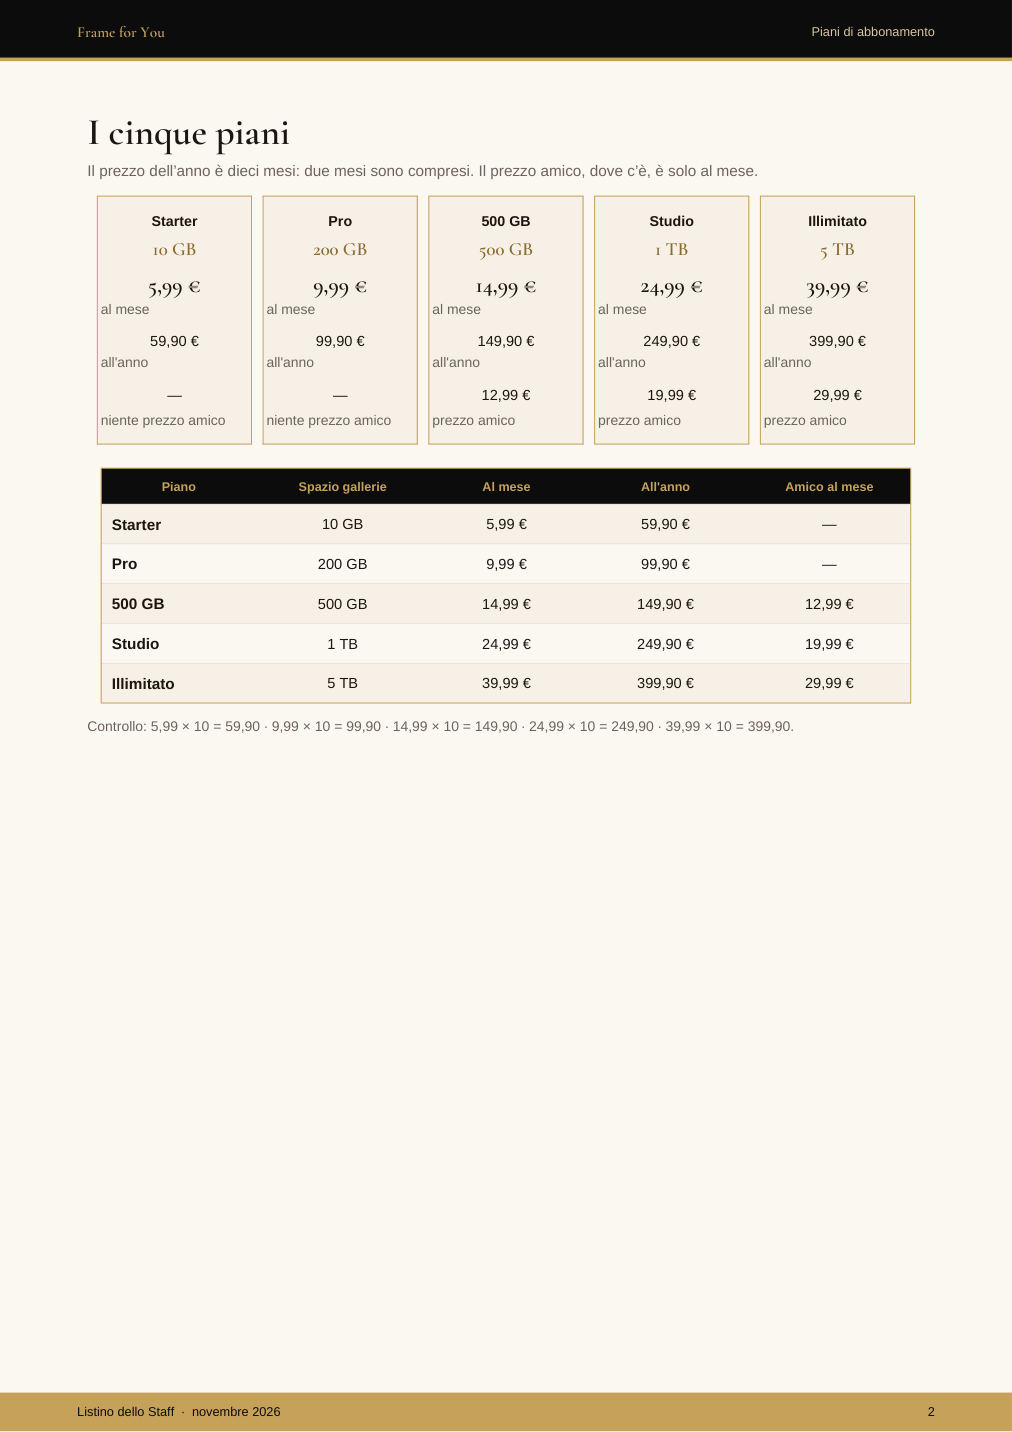
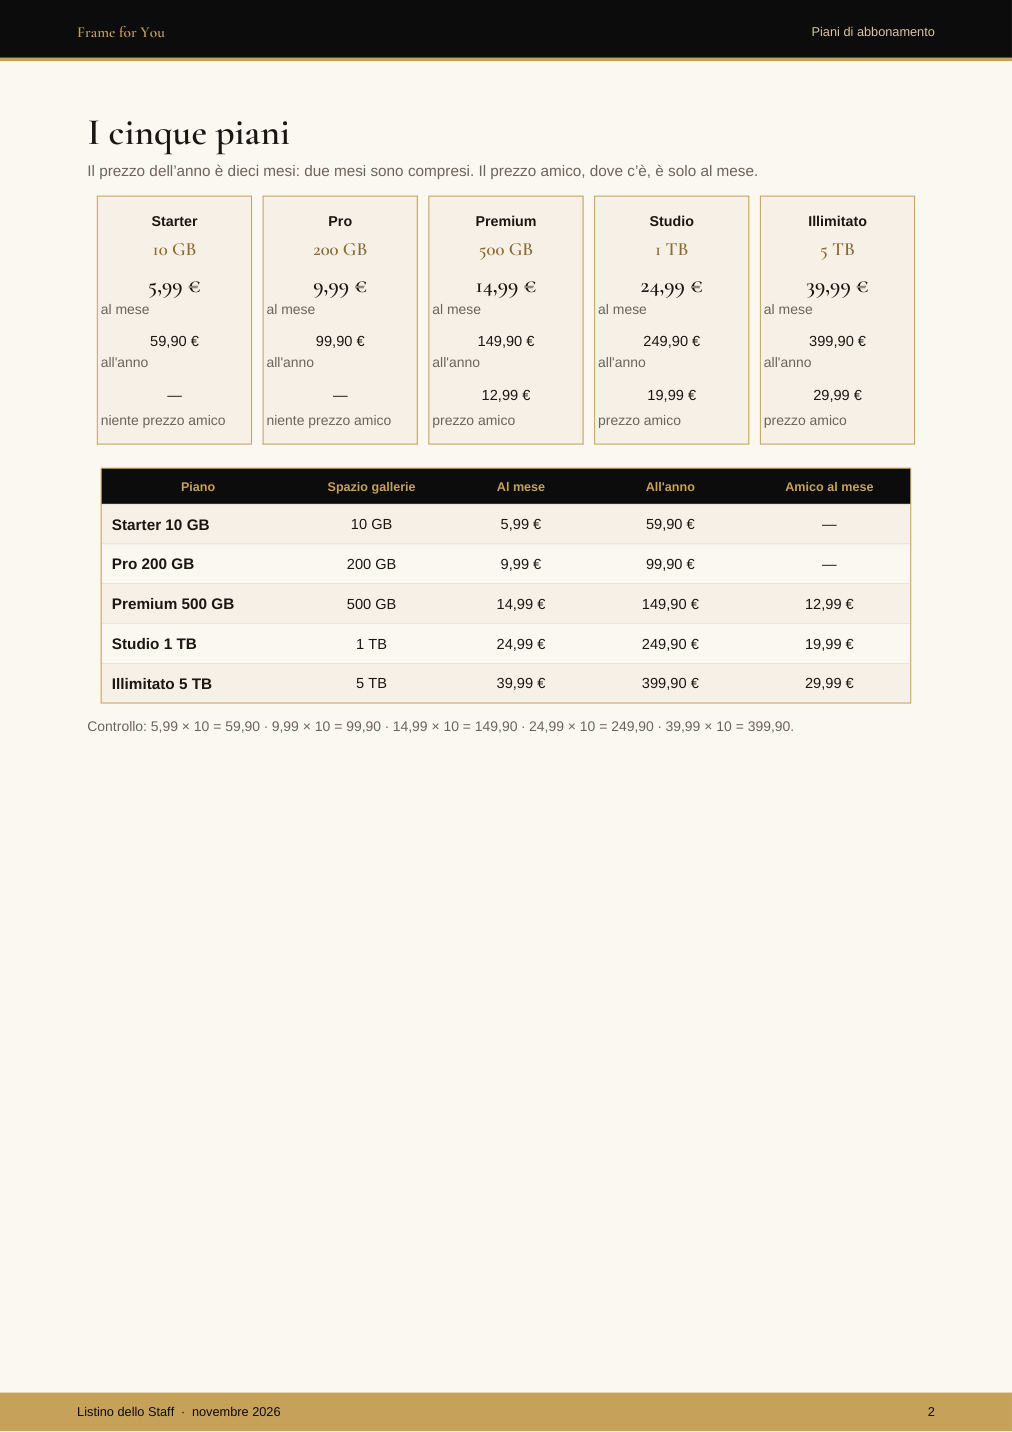
Listino: Premium 500 GB, nomi come nel Creatore.

diff --git a/piani.html b/piani.html
@@ -1,1 +1,1 @@
-<!doctype html><html lang="it"><meta charset="utf-8"><meta name="viewport" content="width=device-width,initial-scale=1"><title>Piani Frame for You</title><style>body{margin:0;background:#0e0e0c}main{max-width:900px;margin:0 auto;padding:10px}img{width:100%;display:block;margin:0 0 12px;border-radius:8px;background:#fff}a{display:block;text-align:center;color:#e6d3a8;font:600 15px/1.4 sans-serif;margin:8px 0 16px}</style><main><a href="Piani-Frame-for-You.pdf">Scarica il PDF</a><img src="piani/p01.jpg" alt="Pagina 1"><img src="piani/p02.jpg" alt="Pagina 2"><img src="piani/p03.jpg" alt="Pagina 3"></main>
+<!doctype html><html lang="it"><meta charset="utf-8"><meta name="viewport" content="width=device-width,initial-scale=1"><title>Piani Frame for You</title><style>body{margin:0;background:#0e0e0c}main{max-width:900px;margin:0 auto;padding:10px}img{width:100%;display:block;margin:0 0 12px;border-radius:8px;background:#fff}a{display:block;text-align:center;color:#e6d3a8;font:600 15px/1.4 sans-serif;margin:8px 0 16px}</style><main><a href="Piani-Frame-for-You.pdf?v=2">Scarica il PDF</a><img src="piani/p01.jpg?v=2" alt="Pagina 1"><img src="piani/p02.jpg?v=2" alt="Pagina 2"><img src="piani/p03.jpg?v=2" alt="Pagina 3"></main>
